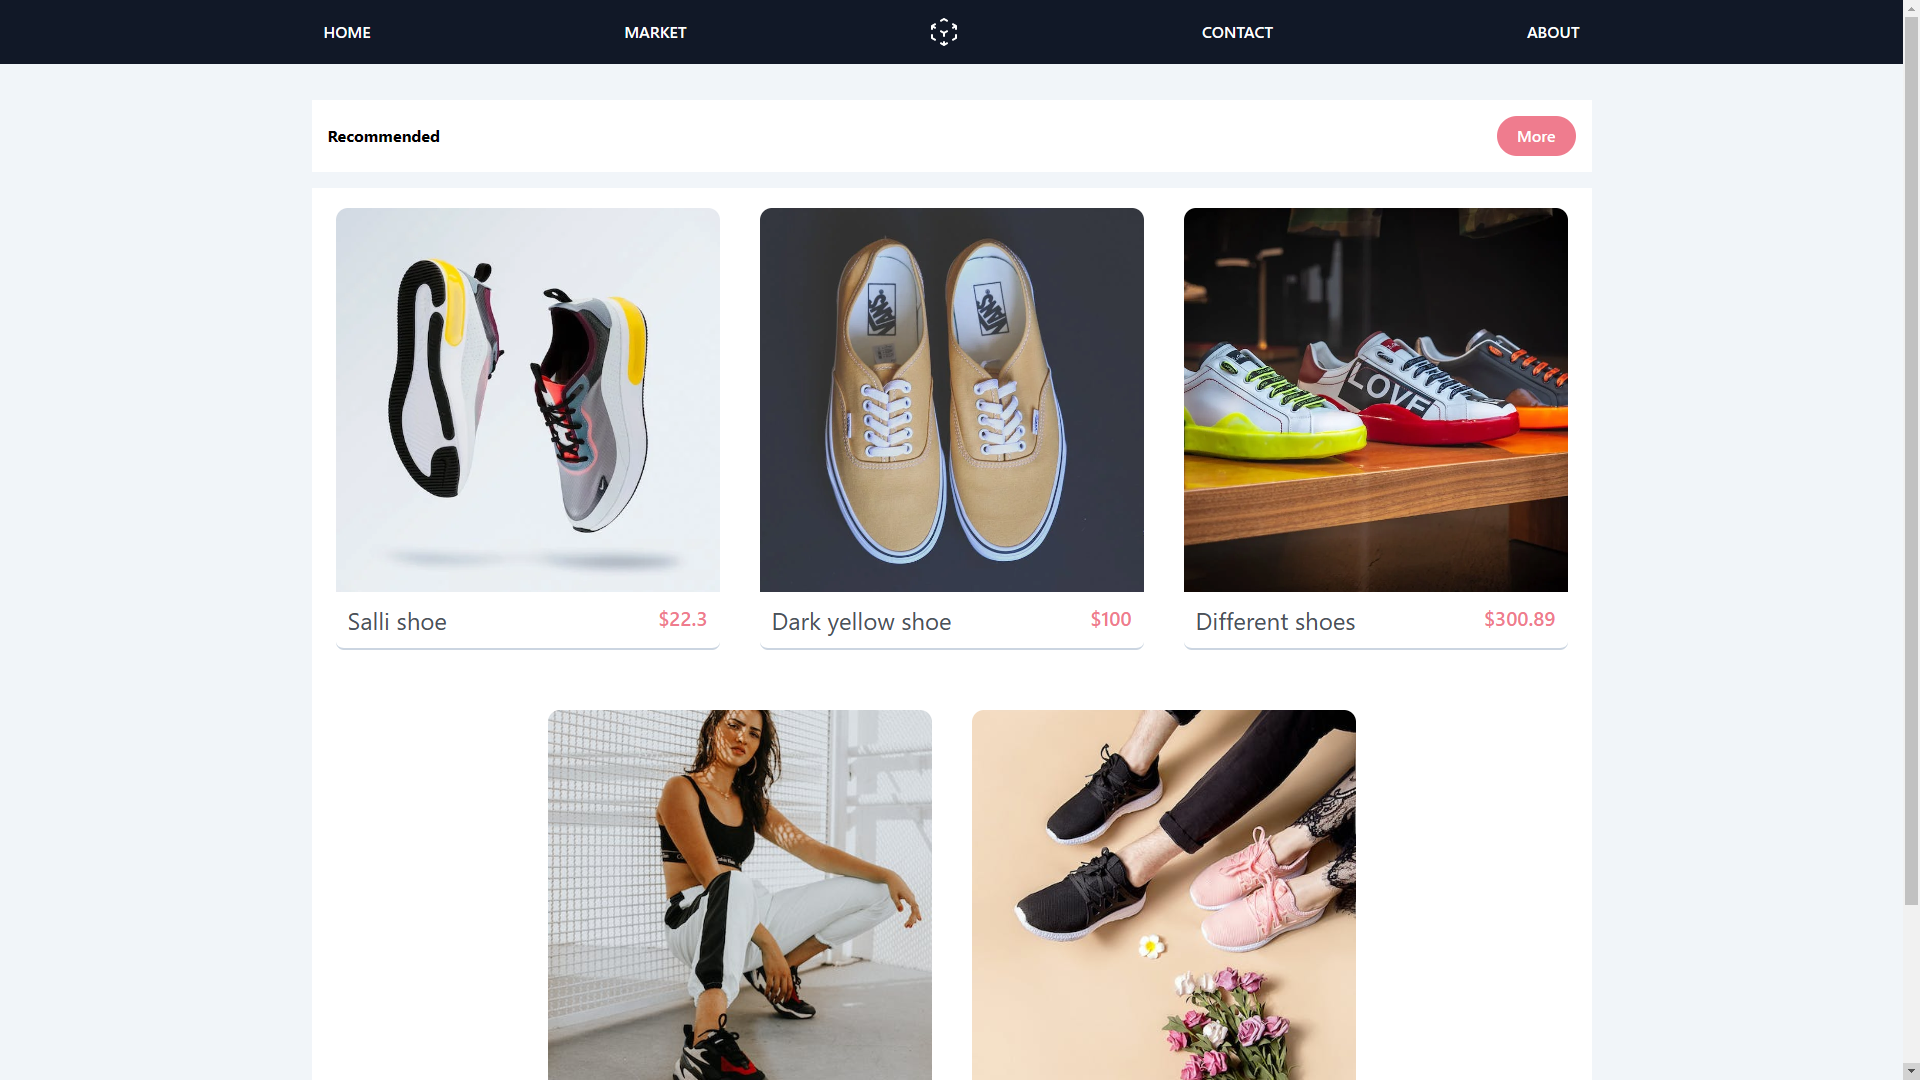
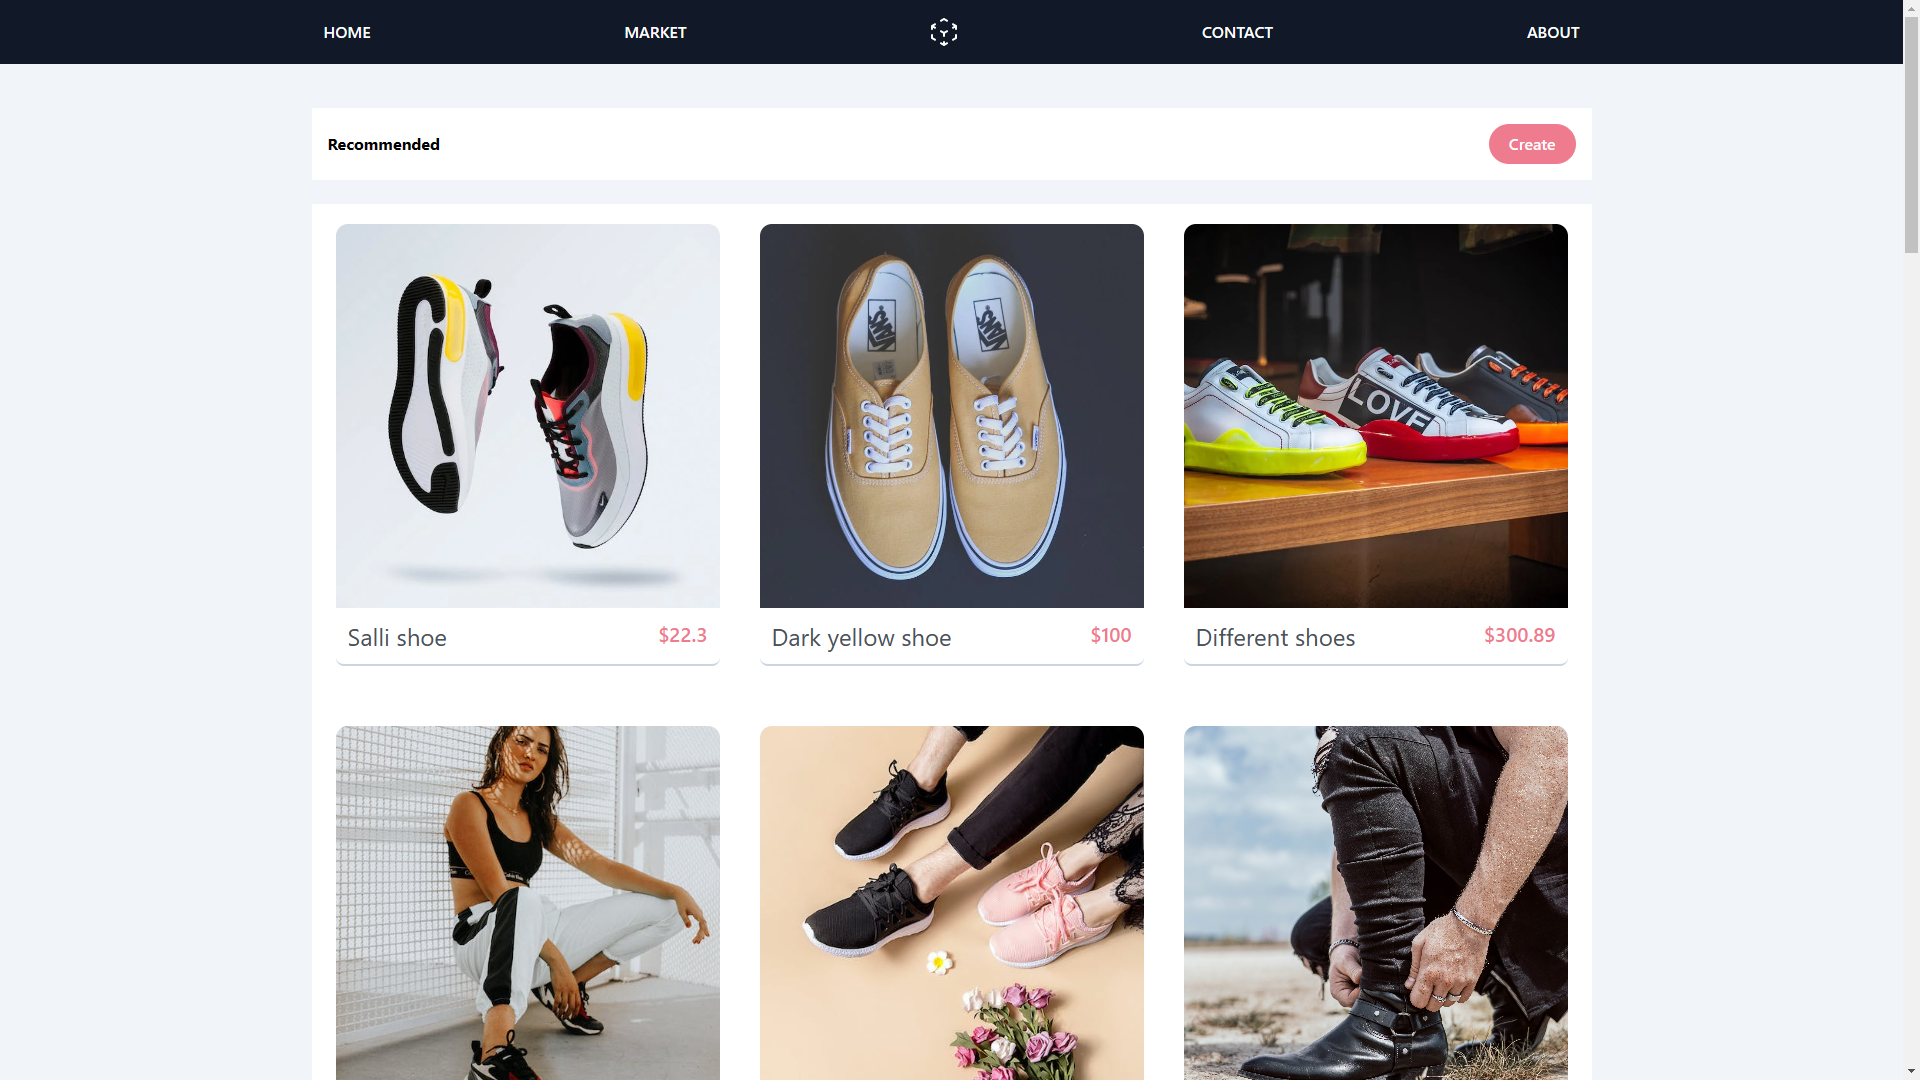
add create product

diff --git a/frontend/src/screen/Create.jsx b/frontend/src/screen/Create.jsx
@@ -1,0 +1,130 @@
+import { useMutation } from "@apollo/client";
+import { useState, useEffect } from "react";
+import Navbar from "../components/Navbar";
+import { CREATE_PRODUCT } from "../context/schema";
+
+const Create = () => {
+    const initialSate = {
+        title: "",
+        description: "",
+        image: "",
+        price: 0,
+    };
+    const [form, setForm] = useState(initialSate);
+    const [createProduct, { data, loading, error }] =
+        useMutation(CREATE_PRODUCT);
+    const [productCreated, setProductCreated] = useState(2);
+
+    const handleSubmit = (e) => {
+        const { title, description, image, price } = form;
+        e.preventDefault();
+
+        if (!title || !description || !image || !price) return;
+
+        createProduct({
+            variables: {
+                product: form,
+            },
+        });
+
+        // reset form
+        setForm(initialSate);
+    };
+
+    useEffect(() => {
+        switch (data && data.createProduct.status) {
+            case "INTERNAL_SERVER_ERROR":
+                console.log("INTERNAL_SERVER_ERROR");
+                setProductCreated(0); // product created
+                break;
+
+            case "CREATED":
+                console.log("CREATED");
+                setProductCreated(1); // couldn't created the product
+                break;
+
+            default: // didn't initialize the process
+                setProductCreated(2);
+                break;
+        }
+    }, [productCreated, form, data]);
+
+    const handleChange = (e, name) => {
+        setForm((prevState) => ({
+            ...prevState,
+            [name]: e.target.value,
+        }));
+    };
+
+    return (
+        <div className="w-fll">
+            <Navbar styles={"bg-gray-900 p-2 text-white"} />
+
+            <div className="w-full flex justify-center">
+                <div className="max-w-7xl w-full mt-5 flex flex-col gap-2 sm:px-2">
+                    {productCreated === 1 && (
+                        <div className="bg-green-500 p-4 text-white text-center">
+                            Product created successfully
+                        </div>
+                    )}
+
+                    {productCreated === 0 && (
+                        <div className="bg-red-500 p-4 text-white text-center">
+                            Error happened
+                        </div>
+                    )}
+
+                    <input
+                        type={"text"}
+                        placeholder="title of the product"
+                        name="title"
+                        value={form.title}
+                        className="p-4 border-2 outline-none"
+                        onChange={(e) => {
+                            handleChange(e, "title");
+                        }}
+                    />
+                    <textarea
+                        rows={10}
+                        placeholder="title of the description"
+                        name="description"
+                        value={form.description}
+                        className="p-4 border-2 outline-none"
+                        onChange={(e) => {
+                            handleChange(e, "description");
+                        }}
+                    ></textarea>
+                    <input
+                        type={"text"}
+                        value={form.image}
+                        placeholder="link of the image"
+                        name="image"
+                        className="p-4 border-2 outline-none"
+                        onChange={(e) => {
+                            handleChange(e, "image");
+                        }}
+                    />
+                    <input
+                        type={"number"}
+                        value={form.price === 0 ? "" : form.price}
+                        placeholder="product price"
+                        name="price"
+                        className="p-4 border-2 outline-none"
+                        onChange={(e) => {
+                            handleChange(e, "price");
+                        }}
+                    />
+                    <button
+                        type="submit"
+                        className="bg-primary text-white p-3 font-semibold rounded-full"
+                        onClick={handleSubmit}
+                    >
+                        Create
+                    </button>
+                </div>
+            </div>
+        </div>
+    );
+};
+
+export default Create;

diff --git a/frontend/src/components/TitleWithButton.jsx b/frontend/src/components/TitleWithButton.jsx
@@ -1,12 +1,14 @@
-import React from 'react'
+import {Link} from 'react-router-dom';
 
-const TitleWithButton = ({title, btnLabel, styles}) => {
+const TitleWithButton = ({title, btnLabel, styles, isLink, to}) => {
   return (
       <div className={`flex justify-between items-center my-6  ${styles}`}>
           <h1 className="font-bold">{title}</h1>
-          <button type="button" className="bg-primary px-5 py-2 rounded-full text-white font-semibold">
+
+          {isLink && <Link to={to}><div className="bg-primary px-5 py-2 rounded-full text-white font-semibold">{btnLabel}</div></Link>}
+          {!isLink && <button type="button" className="bg-primary px-5 py-2 rounded-full text-white font-semibold">
               {btnLabel}
-          </button>
+          </button> }
       </div>
   );
 }

diff --git a/frontend/src/App.js b/frontend/src/App.js
@@ -2,6 +2,7 @@ import {BrowserRouter as Router, Routes, Route} from 'react-router-dom';
 import Home from "./screen/Home";
 import Details from "./screen/Details";
 import NoPage from "./screen/NoPage";
+import Create from './screen/Create';
 
 function App() {
   return (
@@ -10,6 +11,7 @@ function App() {
         <Routes>
           <Route index path="/" element={<Home />} />
           <Route path="/details/:id" element={<Details />} />
+          <Route path="/create" element={<Create />} />
           <Route path="/*" element={<NoPage />} />
         </Routes>
       </Router>

diff --git a/frontend/src/components/Card.jsx b/frontend/src/components/Card.jsx
@@ -21,7 +21,9 @@ const Card = () => {
             <div className="max-w-7xl w-full mt-5">
                 <TitleWithButton
                     title={"Recommended"}
-                    btnLabel={"More"}
+                    btnLabel={"Create"}
+                    isLink={true}
+                    to={'/create'}
                     styles={" bg-white my-4 p-4 w-full"}
                 />
                 {loading && <Loader />}

diff --git a/frontend/src/context/schema.js b/frontend/src/context/schema.js
@@ -29,3 +29,11 @@ export const GET_PRODUCT_BY_ID = gql`
         }
     }
 `;
+
+export const CREATE_PRODUCT = gql`
+    mutation product($product:ProductInput) {
+        createProduct(product: $product) {
+            status
+        }
+    }
+`;
